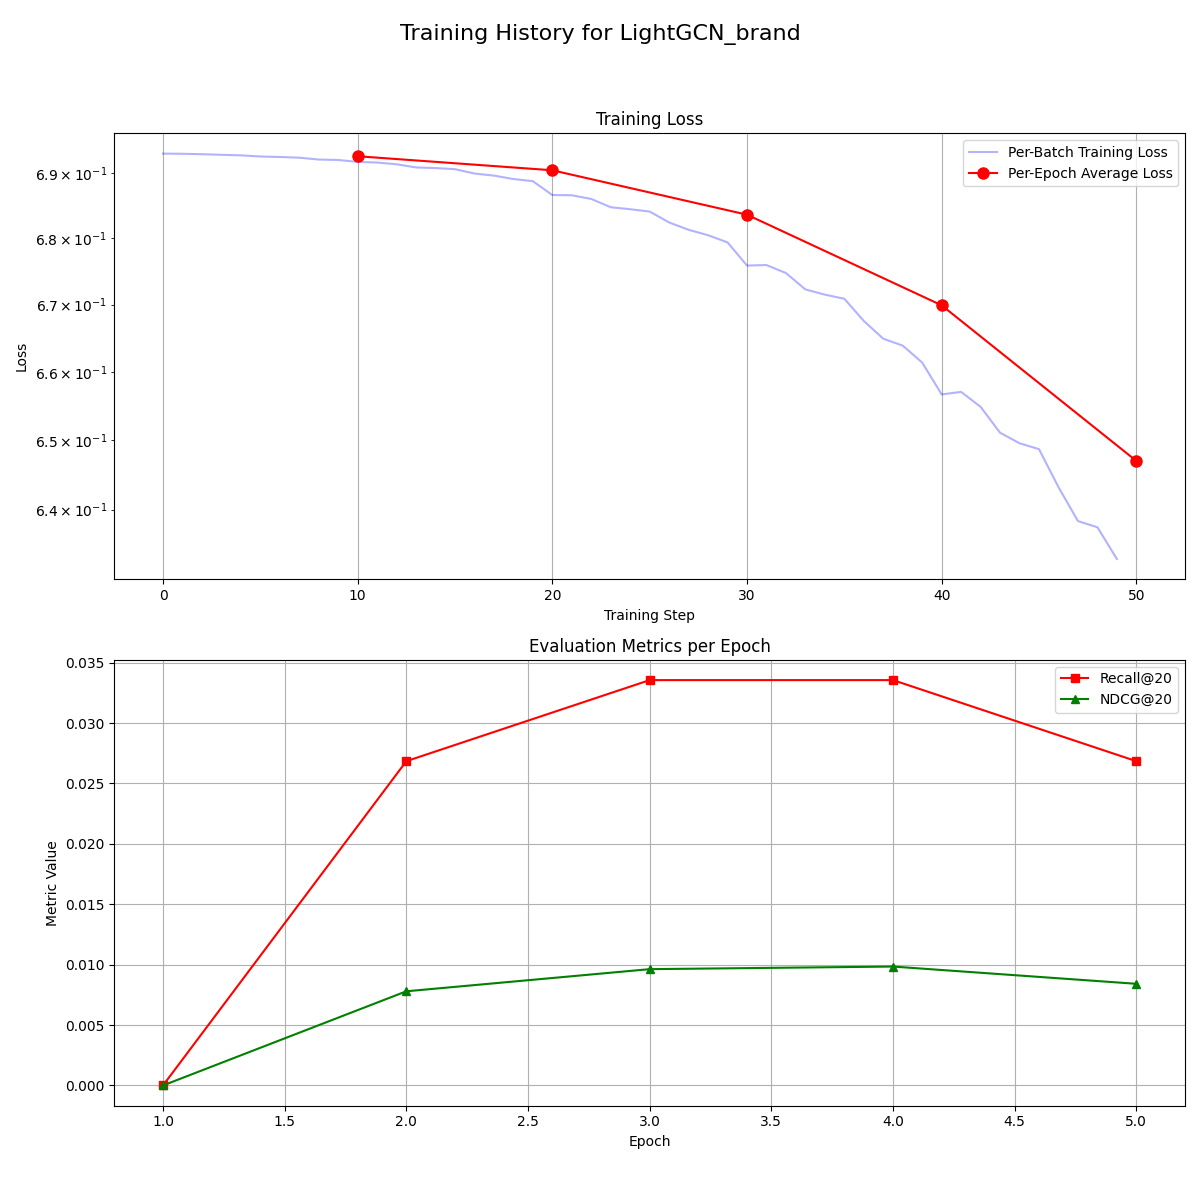
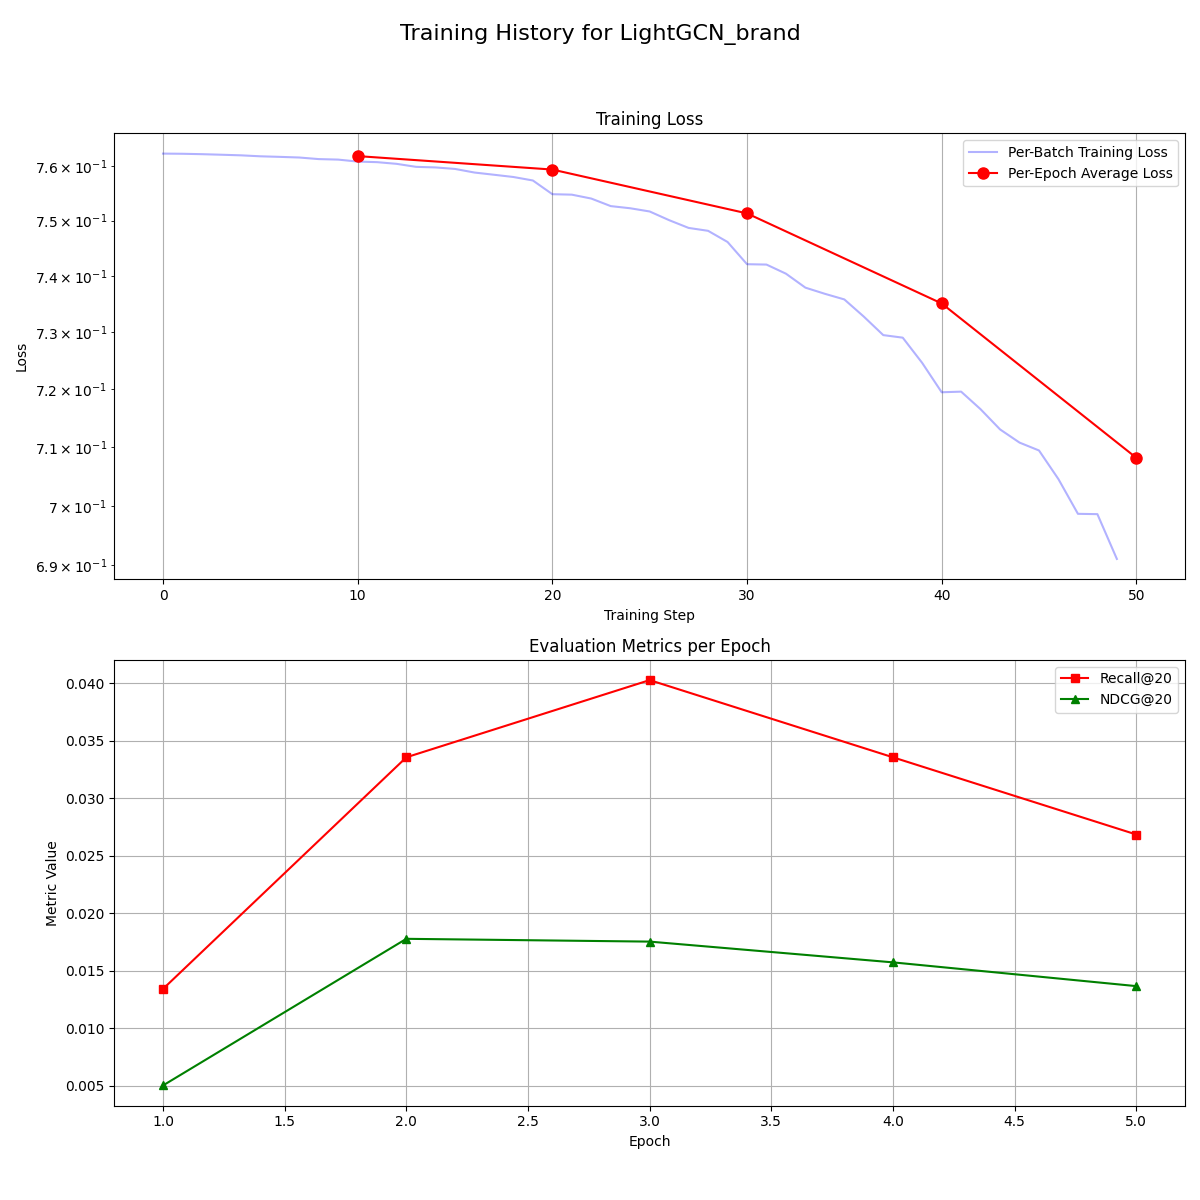
有改进效果

diff --git a/main.py b/main.py
@@ -289,7 +289,6 @@ def load_preprocessed_data(data_dir, device, use_brand=True, debug=False):
     
     # 确定节点总数
     num_nodes = num_users + num_items + num_brands  # 无论use_brand是否为True
-    # 移除原有分支：if use_brand: num_nodes = ... else: num_nodes = ...
 
     # 提取用户-物品边（不变）
     user_indices = train_df['user_idx'].values
@@ -366,7 +365,47 @@ class BPRDataset(Dataset):
             if neg_item not in self.user_pos_items.get(user, set()):
                 break
         return user, pos_item, neg_item
-
+#'''
+#NEW
+def bpr_loss_reg(
+    final_user_emb, final_pos_item_emb, final_neg_item_emb,
+    initial_user_emb, initial_pos_item_emb, initial_neg_item_emb,
+    lambda_reg,
+    brand_loss=False,  # 是否开启Author损失
+    final_brand_emb=None,  # Author嵌入
+    pos_item_brand_idx=None,  # 正商品Author索引
+    neg_item_brand_idx=None,  # 负商品Author索引
+    brand_loss_weight=0.1  # Author损失权重
+):
+    # 基础BPR损失（原有逻辑不变）
+    pos_scores = torch.sum(final_user_emb * final_pos_item_emb, dim=1)
+    neg_scores = torch.sum(final_user_emb * final_neg_item_emb, dim=1)
+    bpr_loss = -torch.mean(torch.log(torch.sigmoid(pos_scores - neg_scores) + 1e-8))
+    
+    # Author偏好损失（新增）
+    brand_loss_val = 0.0
+    if brand_loss and final_brand_emb is not None:
+        # 提取正负商品的Author嵌入
+        pos_brand_emb = final_brand_emb[pos_item_brand_idx]
+        neg_brand_emb = final_brand_emb[neg_item_brand_idx]
+        # 计算用户对正负Author的偏好分数
+        brand_pos_score = torch.sum(final_user_emb * pos_brand_emb, dim=1)
+        brand_neg_score = torch.sum(final_user_emb * neg_brand_emb, dim=1)
+        # BPR形式的Author损失
+        brand_loss_val = -torch.mean(torch.log(torch.sigmoid(brand_pos_score - brand_neg_score) + 1e-8))
+    
+    # 正则损失（原有逻辑不变）
+    reg_loss = lambda_reg * (
+        initial_user_emb.norm(2).pow(2) + 
+        initial_pos_item_emb.norm(2).pow(2) + 
+        initial_neg_item_emb.norm(2).pow(2)
+    ) / float(len(final_user_emb))
+    
+    # 总损失 = 基础BPR + 低权重Author损失 + 正则
+    total_loss = bpr_loss + brand_loss_weight * brand_loss_val + reg_loss
+    return total_loss
+'''
+#OLD
 def bpr_loss_reg(final_user_emb, final_pos_item_emb, final_neg_item_emb,
                  initial_user_emb, initial_pos_item_emb, initial_neg_item_emb, lambda_reg):
     pos_scores = torch.sum(final_user_emb * final_pos_item_emb, dim=1)
@@ -376,6 +415,9 @@ def bpr_loss_reg(final_user_emb, final_pos_item_emb, final_neg_item_emb,
                              initial_neg_item_emb.norm(2).pow(2)) / float(len(final_user_emb))
     return bpr_loss + reg_loss
 #'''
+
+'''
+#NEW
 def evaluate(model, val_or_test_data, train_data, norm_adj_tensor, k, device, batch_size=1024, use_brand=True, item_brand_df=None):
     model.eval()
     test_user_items = dict(zip(val_or_test_data['user_idx'], val_or_test_data['item_idx']))
@@ -429,6 +471,7 @@ def evaluate(model, val_or_test_data, train_data, norm_adj_tensor, k, device, ba
                     ndcgs.append(0)
     return np.mean(recalls), np.mean(ndcgs)
 '''
+#OLD
 def evaluate(model, val_or_test_data, train_data, norm_adj_tensor, k, device, batch_size=1024, use_brand=True, item_brand_df=None):
     model.eval()
     test_user_items = dict(zip(val_or_test_data['user_idx'], val_or_test_data['item_idx']))
@@ -467,6 +510,117 @@ def evaluate(model, val_or_test_data, train_data, norm_adj_tensor, k, device, ba
     return np.mean(recalls), np.mean(ndcgs)
 #'''
 # --- train (MODIFIED for Debug Mode) ---
+#'''
+def train(config, model_class, model_name, use_brand, brand_loss=False, brand_loss_weight=0.1):
+    logger = Logger(config.results_dir, f"{model_name}_{'brand' if use_brand else 'no_brand'}")
+    
+    # 加载所有数据，包括用于最终测试过滤的全量训练数据
+    train_df, val_df, test_df, num_users, num_items, num_brands, norm_adj_tensor, item_brand_df = \
+        load_preprocessed_data(config.processed_data_dir, config.device, use_brand=use_brand, debug=config.debug)
+    
+    # ========== 新增：预构建「物品idx → Author/brand idx」映射（关键） ==========
+    # 用defaultdict兜底，避免物品无Author时报KeyError
+    from collections import defaultdict
+    item_to_brand = defaultdict(lambda: 0)
+    if use_brand and not item_brand_df.empty:
+        # 从item_brand_df中提取映射
+        item_brand_pairs = item_brand_df[['item_idx', 'brand_idx']].values
+        for item_idx, brand_idx in item_brand_pairs:
+            item_to_brand[int(item_idx)] = int(brand_idx)
+    # ==========================================================================
+    
+    train_loader = DataLoader(BPRDataset(train_df, num_items), 
+                              batch_size=config.batch_size, shuffle=True, 
+                              num_workers=config.num_workers, pin_memory=True)
+                              
+    model = model_class(num_users, num_items, num_brands, config).to(config.device)
+    optimizer = optim.Adam(model.parameters(), lr=config.learning_rate)
+    
+    best_recall = 0.0
+    os.makedirs(config.checkpoint_dir, exist_ok=True)
+        
+    print("\nStep 2: Starting model training...")
+    # 新增：打印Author损失配置，确认开关生效
+    if use_brand:
+        print(f"Author Loss Config: brand_loss={brand_loss}, weight={brand_loss_weight}")
+    
+    for epoch in range(1, config.epochs + 1):
+        model.train()
+        epoch_losses = []
+        
+        # 在调试模式下，每个epoch只运行几个batch
+        max_batches_per_epoch = 10 if config.debug else len(train_loader)
+        
+        progress_bar = tqdm(train_loader, total=max_batches_per_epoch, desc=f"Epoch {epoch}/{config.epochs}")
+        
+        for i, (users, pos_items, neg_items) in enumerate(progress_bar):
+            if i >= max_batches_per_epoch:
+                break # 提前结束 epoch
+                
+            users, pos_items, neg_items = users.to(config.device), pos_items.to(config.device), neg_items.to(config.device)
+            optimizer.zero_grad()
+            
+            final_user_emb_all, final_item_emb_all, final_brand_emb_all, initial_user_emb_all, initial_item_emb_all = model(norm_adj_tensor, use_brand=use_brand)
+            final_user_emb, final_pos_item_emb, final_neg_item_emb = final_user_emb_all[users], final_item_emb_all[pos_items], final_item_emb_all[neg_items]
+            initial_user_emb, initial_pos_item_emb, initial_neg_item_emb = initial_user_emb_all[users], initial_item_emb_all[pos_items], initial_item_emb_all[neg_items]
+
+            # ========== 新增：获取正负商品的Author/brand idx ==========
+            pos_item_brand_idx = None
+            neg_item_brand_idx = None
+            if use_brand and brand_loss:
+                # 从预构建映射中查询，转到设备
+                pos_item_brand_idx = torch.tensor(
+                    [item_to_brand[int(item)] for item in pos_items.cpu().numpy()],
+                    device=config.device
+                )
+                neg_item_brand_idx = torch.tensor(
+                    [item_to_brand[int(item)] for item in neg_items.cpu().numpy()],
+                    device=config.device
+                )
+            # ==========================================================
+
+            # ========== 修改：调用带Author损失的bpr_loss_reg ==========
+            loss = bpr_loss_reg(final_user_emb, final_pos_item_emb, final_neg_item_emb,
+                initial_user_emb, initial_pos_item_emb, initial_neg_item_emb, config.weight_decay,
+                brand_loss=brand_loss,  # 传递Author损失开关
+                final_brand_emb=final_brand_emb_all if use_brand else None,  # Author嵌入
+                pos_item_brand_idx=pos_item_brand_idx,  # 正商品Author索引
+                neg_item_brand_idx=neg_item_brand_idx,  # 负商品Author索引
+                brand_loss_weight=brand_loss_weight  # Author损失权重
+            )
+            # ==========================================================
+
+            loss.backward()
+            optimizer.step()
+            
+            batch_loss = loss.item()
+            epoch_losses.append(batch_loss)
+            logger.log_batch_loss(batch_loss)
+            progress_bar.set_postfix(loss=f"{batch_loss:.4f}")
+
+        avg_loss = np.mean(epoch_losses) if epoch_losses else 0
+        print(f"Epoch {epoch}/{config.epochs}, Average Loss: {avg_loss:.4f}")
+        
+        if epoch % config.val_interval == 0:
+            print("Evaluating on VALIDATION set...")
+            # FIX: Explicitly pass norm_adj_tensor to the evaluate function
+            recall, ndcg = evaluate(
+                model, val_df, train_df, norm_adj_tensor, 
+                config.top_k, config.device, 
+                use_brand=use_brand, item_brand_df=item_brand_df  # 新增参数
+            )
+            print(f"Epoch {epoch} | Val Recall@{config.top_k}: {recall:.4f}, Val NDCG@{config.top_k}: {ndcg:.4f}")
+            logger.log_epoch_metrics(epoch=epoch, avg_loss=avg_loss, recall=recall, ndcg=ndcg)
+
+            if recall > best_recall:
+                best_recall = recall
+                save_path = os.path.join(config.checkpoint_dir, config.best_model_name)
+                torch.save(model.state_dict(), save_path)
+                print(f"New best model saved...")
+
+    print("Training finished.")
+    logger.save(total_epochs=config.epochs)
+'''
 def train(config, model_class, model_name, use_brand):
     logger = Logger(config.results_dir, f"{model_name}_{'brand' if use_brand else 'no_brand'}")
     
@@ -537,6 +691,7 @@ def train(config, model_class, model_name, use_brand):
 
     print("Training finished.")
     logger.save(total_epochs=config.epochs)
+#'''
 
 def test(config, model_class, model_path, use_brand):
     print("--- Starting Testing Mode ---")
@@ -578,7 +733,7 @@ if __name__ == '__main__':
     parser.add_argument('--epochs', type=int, default=150, help="Number of training epochs.")
     parser.add_argument('--model_path', type=str, help="Path to checkpoint for testing.")
     parser.add_argument('--no_brand', action='store_true', help="Run ablation study without brand info.")
-    # --num_gpus 参数不再需要，可以移除
+    parser.add_argument('--brand_loss', action='store_true', help='enable author preference loss')
     parser.add_argument('--debug', action='store_true', help="Enable debug mode for a quick run.")
     
     args = parser.parse_args()
@@ -593,7 +748,7 @@ if __name__ == '__main__':
     config.best_model_name = f'best_{args.model_name.lower()}_core{args.core}{ablation_suffix}.pth'
 
     if args.mode == 'train':
-        train(config, ModelClass, args.model_name, use_brand=not args.no_brand) 
+        train(config, ModelClass, args.model_name, use_brand=not args.no_brand, brand_loss=args.brand_loss) 
     elif args.mode == 'test':
         model_to_test = args.model_path if args.model_path else os.path.join(config.checkpoint_dir, config.best_model_name)
         test(config, ModelClass, model_to_test, use_brand=not args.no_brand)
